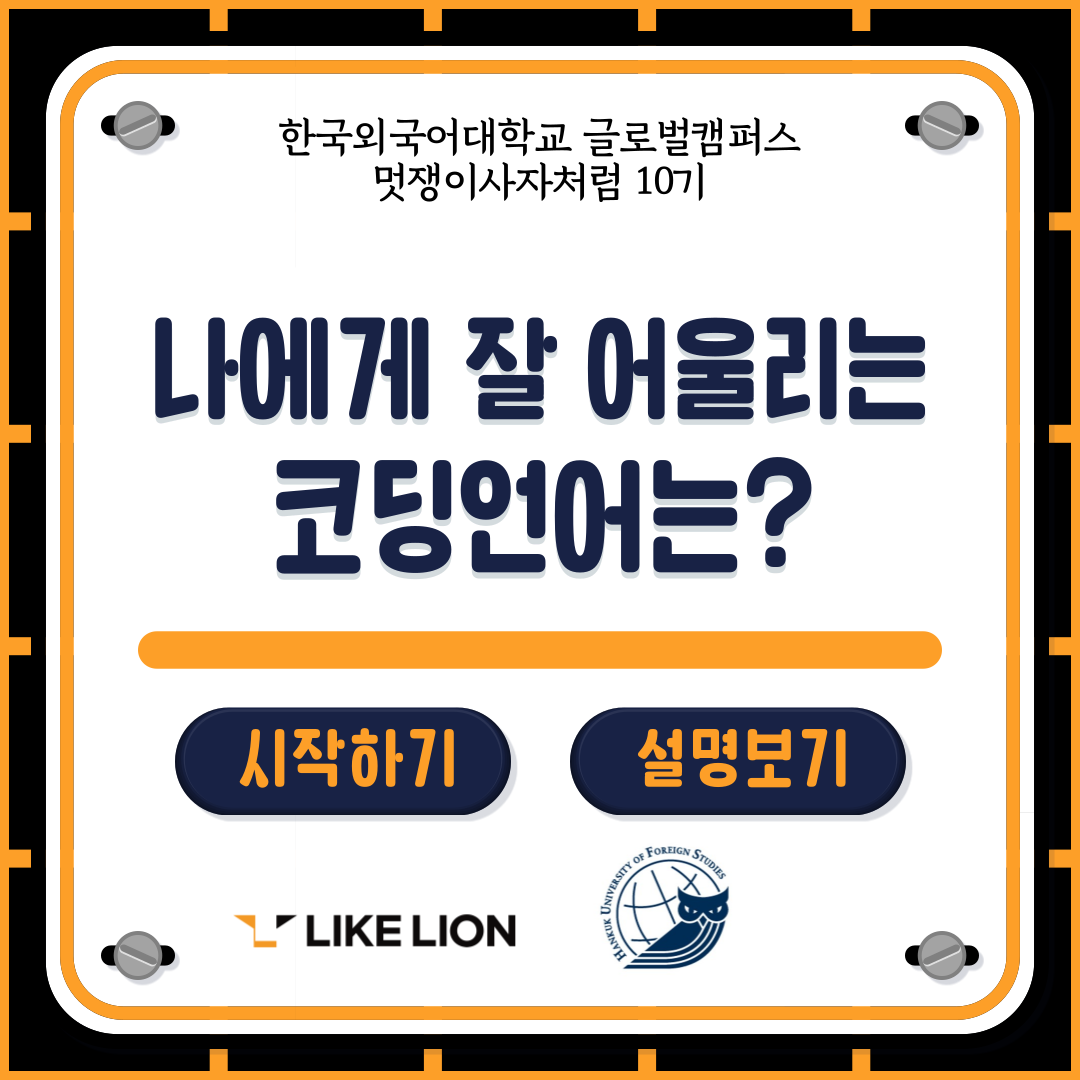
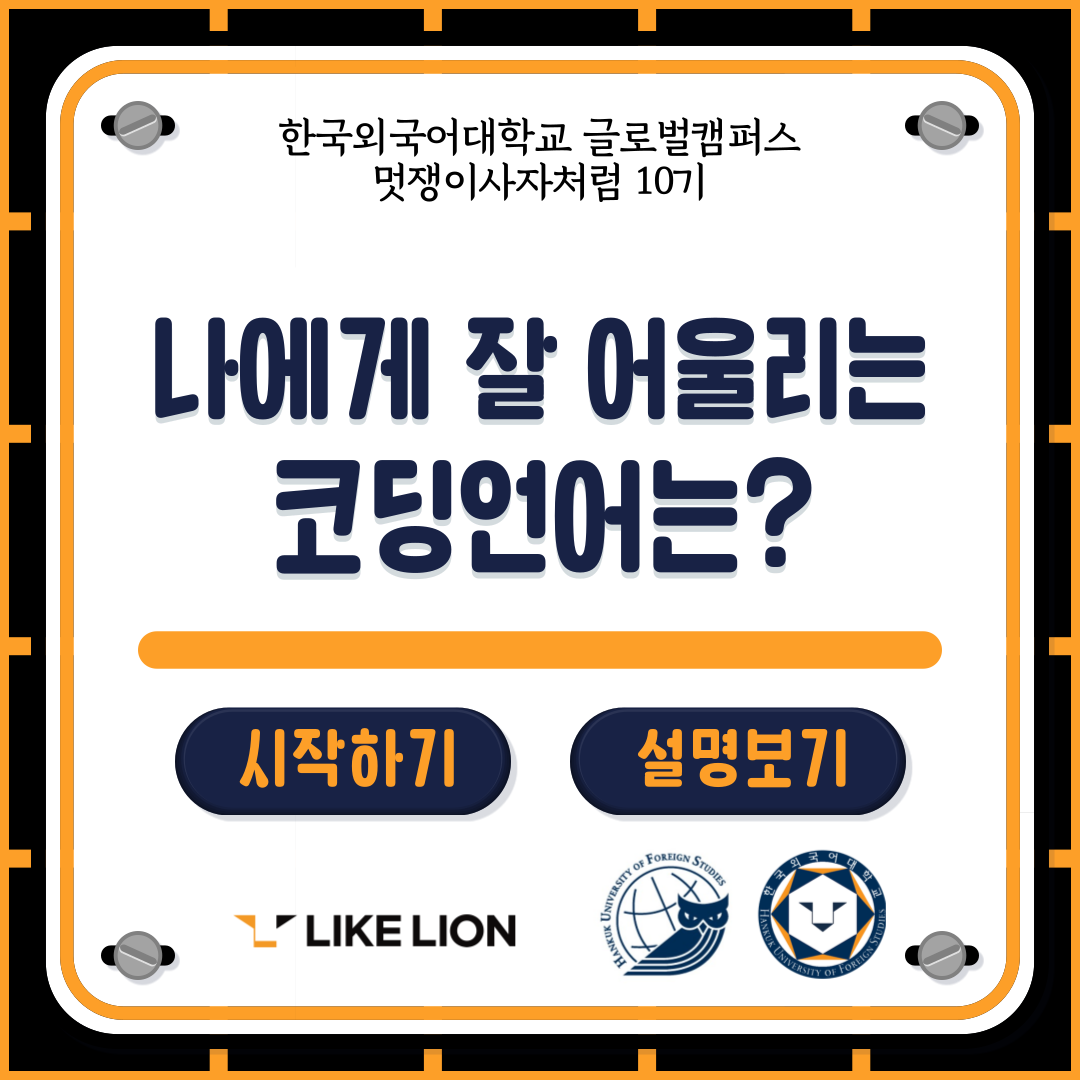
6차 커밋, firstview수정 and  lastview 사진 추가

Changed region(s): [[0.55, 0.7639, 0.6722, 0.9167], [0.7028, 0.7639, 0.825, 0.9167]]

diff --git a/index.html b/index.html
@@ -26,7 +26,13 @@
     src: url('https://cdn.jsdelivr.net/gh/projectnoonnu/noonfonts_20-04@1.0/ghanachoco.woff') format('woff');
     font-weight: normal;
     font-style: normal;
-}
+  }
+  @font-face {
+    font-family: 'yg-jalnan';
+    src: url('https://cdn.jsdelivr.net/gh/projectnoonnu/noonfonts_four@1.2/JalnanOTF00.woff') format('woff');
+    font-weight: normal;
+    font-style: normal;
+  }
 
     body{
       padding: 0px;
@@ -61,12 +67,27 @@
       height: 1.7rem;
       background-color: transparent;
     } 
+    .btn3 {
+      float: left;
+      cursor: pointer;
+      width: 6rem;
+      height: 5.7rem;
+      background-color: transparent;
+    } 
     .btn4 {
       float: left;
       width: 32.6rem;
       height: 8.5rem;
       margin-left: 8.7rem;
       border-radius: 6rem;
+      background-color: transparent;
+    }
+    .btn5 {
+      float: left;
+      width: 21rem;
+      height: 5.5rem;
+      margin-left: 8.7rem;
+      border-radius: 5rem;
       background-color: transparent;
     }
   </style>
@@ -77,6 +98,8 @@
     <button type="button" class="btn btn1" style="position: absolute; margin-top: 32.73rem; margin-left: 8.09rem;" onclick='start();'></button>
     <button type="button" class="btn btn1" style="position: absolute; margin-top: 32.73rem; margin-left: 26.37rem;"></button>
     <button onclick="location.href='https://www.codelion.net/'" class="btn btn2" style="position: absolute; margin-top: 42.3rem; margin-left: 10.8rem;"></button>
+    <button onclick="location.href='https://www.hufs.ac.kr/'" class="btn btn3" style="position: absolute; margin-top: 39.5rem; margin-left: 27.8rem;"></button>
+    <button onclick="location.href='https://www.facebook.com/likelionhufs/'" class="btn btn3" style="position: absolute; margin-top: 39.5rem; margin-left: 35rem;"></button>
   </article>
 
   <article id="content" style="background-image: url(static/img/secondview.png); background-size: 100%, 100%;" class="question">
@@ -91,9 +114,12 @@
   </article>
 
   <article id="content" style="background-image: url(static/img/lastview.png); background-size: 100%, 100%;" class="result">
-    <img style="width: 9rem; height: auto; position: absolute; margin-top: 11.5rem; margin-left: 9.5rem;" src="static/img/JS-logo.png" alt="programming_language">
-    <h2 id="programming_language" style="position: absolute; margin-left: 30rem; margin-top: 10rem;"class="text-center">프로그래밍 언어</h2>
+    <img id="img" style="height: 10rem; width: auto; position: absolute; margin-top: 11rem; margin-left: 9.5rem;" src="static/img/JS-logo.png" alt="programming_language">
+    <h2 style="position: absolute; margin-left: 25rem; margin-top: 10rem; font-family: yg-jalnan;"class="text-center">나랑 닮은 언어는?</h2>
+    <h2 style="position: absolute; margin-left: 26.5rem; margin-top: 13.5rem;"class="text-center">➜</h2>
+    <h2 id="programming_language" style="position: absolute; margin-left: 29rem; margin-top: 13.5rem; font-family: yg-jalnan;"class="text-center">프로그래밍 언어</h2>
     <h3 id="explain" style="position: absolute; margin-left: 30rem; margin-top: 20rem;" class="text-center">설명</h3>
+    <button onclick="location.href='https://www.facebook.com/likelionhufs/'" class="btn btn5" style="position: absolute; margin-top: 40.3rem; margin-left: 20.4rem;"></button>
   </article>
   
   <input type="hidden" id="EI" value="0">
@@ -147,13 +173,13 @@
     }
     var result = {
       "ESJ": {"programming_language": "JavaScript", "explain": "하마 설명", "img":"static/img/JS-logo.png"},
-      "ESP": {"programming_language": "Python", "explain": "멋쟁이 사자 설명", "img":"lion.jpg"},
-      "ENJ": {"programming_language": "Java", "explain": "호랑이 설명", "img":"lion.jpg"},
-      "ENP": {"programming_language": "C#", "explain": "호랑이 설명", "img":"lion.jpg"},
-      "ISJ": {"programming_language": "Swift", "explain": "호랑이 설명", "img":"lion.jpg"},
-      "ISP": {"programming_language": "Go", "explain": "호랑이 설명", "img":"lion.jpg"},
-      "INJ": {"programming_language": "C++", "explain": "호랑이 설명", "img":"lion.jpg"},
-      "INP": {"programming_language": "PHP", "explain": "호랑이 설명", "img":"lion.jpg"},
+      "ESP": {"programming_language": "Python", "explain": "멋쟁이 사자 설명", "img":"static/img/python-logo.png"},
+      "ENJ": {"programming_language": "Java", "explain": "호랑이 설명", "img":"static/img/java-logo.png"},
+      "ENP": {"programming_language": "C#", "explain": "호랑이 설명", "img":"static/img/csh-logo.png"},
+      "ISJ": {"programming_language": "Swift", "explain": "호랑이 설명", "img":"static/img/swift-logo.png"},
+      "ISP": {"programming_language": "Go", "explain": "호랑이 설명", "img":"static/img/go-logo.png"},
+      "INJ": {"programming_language": "C++", "explain": "호랑이 설명", "img":"static/img/cpp-logo.png"},
+      "INP": {"programming_language": "PHP", "explain": "호랑이 설명", "img":"static/img/php-logo.png"},
     }
     function start() {
       $(".start").hide();
